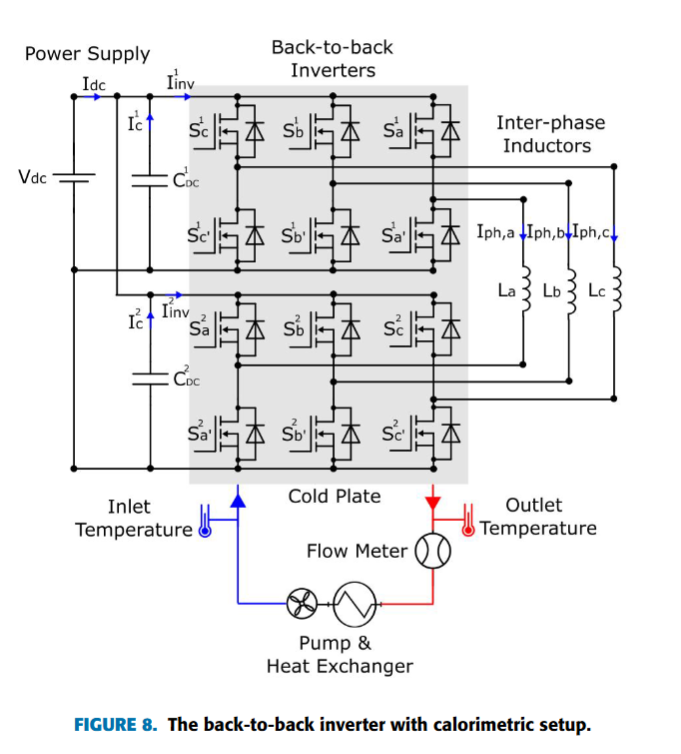
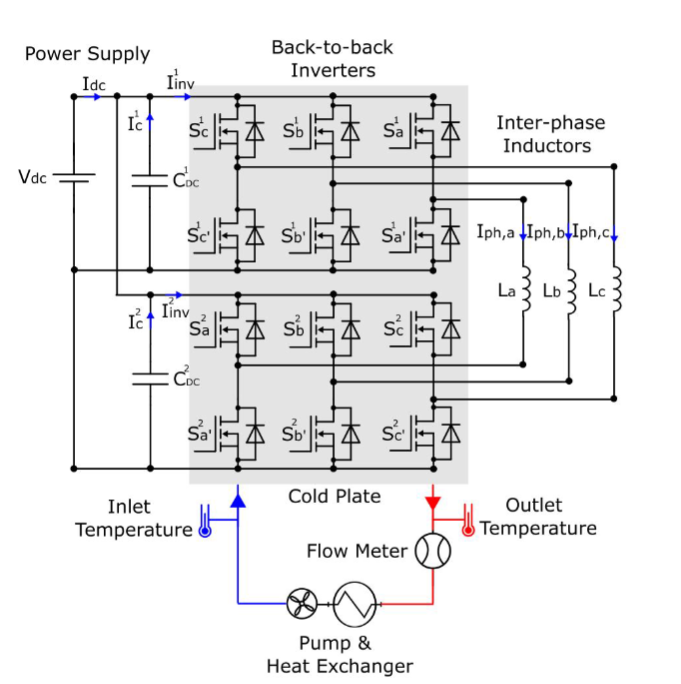
Alstom deck: fixes from the outside review (numbers, labels, overlaps, subscripts)

Changed region(s): [[0.0308, 0.0307, 0.9251, 1.0], [0.0308, 0.2149, 0.1542, 0.2763]]

diff --git a/PCB-Design/reports/alstom-meeting/index.html b/PCB-Design/reports/alstom-meeting/index.html
@@ -211,7 +211,7 @@ table.t.cells td,table.t.cells th{text-align:center} table.t.cells td:first-chil
       <div class="kpi"><b>2 SiC</b><span>two-level prototypes, 2 kV and 1.7 kV</span></div>
       <div class="kpi"><b>16 × 75 V</b><span>stacked cells, 100 V GaN</span></div>
       <div class="kpi"><b>4 × GaN</b><span>EPC2361 per switch</span></div>
-      <div class="kpi"><b>0.41 nH</b><span>power loop per cell (Q3D)</span></div>
+      <div class="kpi"><b>0.65 / 0.41 nH</b><span>loop per cell, double-pulse / load circuit (Q3D)</span></div>
       <div class="kpi"><b>Prototype v1</b><span>GaN double-pulse circuit in progress</span></div>
     </div>
     <div class="strip">
@@ -267,7 +267,7 @@ table.t.cells td,table.t.cells th{text-align:center} table.t.cells td:first-chil
       </div>
       <ul class="clean small">
         <li>Same energy at 1200 V instead of 800 V: about 33 % less current and 56 % less I²R loss in the charging cable.</li>
-        <li>Or keep the loss and cut the copper: about 40–45 % less cable mass.</li>
+        <li>Or keep the current density and cut the copper: about 33 % less cable mass.</li>
         <li>Megawatt charging (MCS) allows up to 1250 V, so a 1.2 kV battery can use it fully.</li>
       </ul>
       <table class="t txt big">
@@ -299,13 +299,13 @@ table.t.cells td,table.t.cells th{text-align:center} table.t.cells td:first-chil
         <div class="kpi"><b>+11 %</b><span>inverter power density</span></div>
       </div>
       <table class="t big">
-        <thead><tr><th>800 V vs 1200 V, same power and thermal limits</th><th>Result</th></tr></thead>
+        <thead><tr><th>Design study: 800 V vs 1200 V, same power and thermal limits</th><th>Result</th></tr></thead>
         <tbody>
           <tr><td>Charging current</td><td>−33 %</td></tr>
           <tr><td>Charging-cable I²R loss</td><td>−56 %</td></tr>
-          <tr><td>Inverter efficiency (1.2 kV SiC vs 2 kV SiC)</td><td>≈ 99.2 % both</td></tr>
+          <tr><td>Inverter efficiency (800 V with 1.2 kV SiC, 1200 V with 2 kV SiC)</td><td>≈ 99.2 % both</td></tr>
           <tr><td>DC-link capacitor volume</td><td>3.5 → 3.0 L</td></tr>
-          <tr class="hl"><td>Inverter power density</td><td>50.0 → 55.5 kW/L (+11 %)</td></tr>
+          <tr class="hl"><td>Inverter power density (component sum, study)</td><td>50.0 → 55.5 kW/L (+11 %)</td></tr>
           <tr><td>Motor: series instead of parallel winding paths</td><td>same geometry</td></tr>
         </tbody>
       </table>
@@ -350,7 +350,7 @@ table.t.cells td,table.t.cells th{text-align:center} table.t.cells td:first-chil
         <div class="chartbox" style="height:130px"><svg class="chart" id="pdChart" viewBox="0 0 560 120" aria-label="Power density of the two prototypes"></svg></div>
       </div>
       <p class="small" id="protoTxt"></p>
-      <p class="tiny muted">Prototype 2: rated power estimated from 72 kW/L × 4.14 L; efficiency map at 1190 V, M = 1.15, 50–200 A<sub>rms</sub>, from the calorimetric loss data.</p>
+      <p class="tiny muted">Prototype 2: rated power not stated in the source, ≈ 300 kW is 72 kW/L × 4.14 L; efficiency map at 1190 V, M = 1.15, 50–200 A<sub>rms</sub>, from the calorimetric loss data.</p>
     </div>
   </div>
 </section>
@@ -513,7 +513,7 @@ table.t.cells td,table.t.cells th{text-align:center} table.t.cells td:first-chil
           <label for="lnN">Cells N (your choice)</label><input id="lnN" type="range" min="1" max="60" step="1" value="16"><output id="lnNo"></output>
         </div>
       </div>
-      <div class="chartbox" style="flex:1;min-height:250px"><svg class="chart" id="lnChart" viewBox="0 0 640 200" aria-label="Cell voltage at nominal and maximum line voltage against the device rating"></svg></div>
+      <div class="chartbox" style="flex:1;min-height:250px"><svg class="chart" id="lnChart" viewBox="0 0 640 280" aria-label="Cell voltage at nominal and maximum line voltage against the device rating" preserveAspectRatio="xMidYMid meet"></svg></div>
     </div>
     <div class="stack">
       <div class="readout" id="lnRo"></div>
@@ -592,18 +592,17 @@ table.t.cells td,table.t.cells th{text-align:center} table.t.cells td:first-chil
       <div class="seg" id="scSeg" role="group" aria-label="Circuit"><button aria-pressed="false" data-v="load">Load circuit · 0.41 nH</button><button aria-pressed="true" data-v="dpt">Double-pulse circuit · 0.65 nH</button></div>
       <div class="card"><div class="ctrl"><label for="rgS">Turn-on gate resistance R<sub>g,on</sub></label><input id="rgS" type="range" min="2.5" max="3.5" step="0.1" value="3.5"><output id="rgSo"></output></div></div>
       <div class="chartbox" style="flex:1;min-height:220px"><svg class="chart" id="scChart" viewBox="0 0 640 230" aria-label="Peak high-side drain voltage and turn-on energy against gate resistance"></svg></div>
-      <div id="scCells"></div>
     </div>
     <div class="stack">
       <div class="readout" id="scRo"></div>
       <p class="small" id="scTxt"></p>
+      <div id="scCells"></div>
       <ul class="clean small">
         <li>Four cells of one leg, 75 V, about 316 A load, with the Q3D power and gate networks of the real layout.</li>
         <li>The lumped gate model gives 90 V; the extracted network shows 93 V. The extraction matters for the margin.</li>
         <li>Double-pulse circuit: R<sub>g,on</sub> 2.5 → 3.5 Ω lowers the peak from 105 to 93 V and raises E<sub>on</sub> by 28 %. Chosen: 3.5 Ω with −1.9 V off-state bias.</li>
       </ul>
-      <div class="fig" style="flex:1;min-height:150px"><img src="img/sim_waves.png" alt="LTspice waveforms of the four cells: drain currents and voltages at turn-off, low-side current and high-side voltage at turn-on, and high-side drain voltage for the Q3D and lumped models."></div>
-      <p class="tiny muted">Waveforms: (a) turn-off, four cells; (b) turn-on; (c) high-side V<sub>DS</sub>, Q3D vs lumped models. Peak V<sub>DS</sub> at the high-side device; 90 V target, 100 V rating. Simulated at the end points of each slider range; values in between are interpolated linearly and marked as such.</p>
+      <p class="tiny muted">Peak V<sub>DS</sub> at the high-side device; 90 V target, 100 V rating. Simulated at the end points of each slider range; values in between are interpolated linearly and marked as such.</p>
     </div>
   </div>
 </section>
@@ -614,14 +613,14 @@ table.t.cells td,table.t.cells th{text-align:center} table.t.cells td:first-chil
   <div class="body cols-3" style="grid-template-rows:auto auto 1fr">
     <div class="fig" style="height:400px"><img src="img/v1_dpt.png" alt="Double-pulse test circuit of prototype v1: four cells with shunts, ceramic capacitor bank, AC bar and two gate-driver areas."></div>
     <div class="fig" style="height:400px"><img src="img/v1_load.jpg" alt="Load circuit of prototype v1: the same leg with a heatsink over the transistors and the AC bar for continuous operation."></div>
-    <div class="fig" style="height:400px"><img src="img/gate_star.png" alt="Gate routing of one driver block: gate paths in a star from the driver to four transistors, Kelvin returns routed under them."></div>
+    <div class="fig" style="height:400px"><img src="img/v1_pcb_top.jpg" alt="Top view of the double-pulse circuit: capacitor bank, four cells with shunts, two gate drivers and the AC bar."></div>
     <p class="small"><b>Double-pulse circuit.</b> One leg: 4 × EPC2361 per switch, 2 drivers, a shunt in every cell, 1200 V isolation to the control side, 89.5 × 85.2 mm, 4 layers. <span class="chip now">in progress</span></p>
     <p class="small"><b>Load circuit.</b> The same leg with a heatsink over the transistors, for continuous operation at rated current. <span class="chip next">after double pulse</span></p>
-    <p class="small"><b>Gate drive.</b> One driver channel per pair, gate in a star, Kelvin return under each gate trace, so every transistor sees the same gate loop.</p>
+    <p class="small"><b>Top view and gate drive.</b> One driver channel per pair, gate in a star, Kelvin return under each gate trace, so every transistor sees the same gate loop.</p>
     <div class="readout" style="grid-column:1/-1;align-self:end">
       <div class="ro good"><b>0.646 nH</b><span>power loop per cell, double-pulse circuit (with shunt)</span></div>
-      <div class="ro good"><b>0.408 nH</b><span>power loop per cell, load circuit</span></div>
-      <div class="ro"><b>0.7 %</b><span>loop spread between the 4 cells</span></div>
+      <div class="ro good"><b>0.409 nH</b><span>power loop per cell, load circuit</span></div>
+      <div class="ro"><b>0.7 / 1.6 %</b><span>loop spread between the 4 cells, double-pulse / load</span></div>
       <div class="ro"><b>99.71 %</b><span>leg efficiency at 50 kHz (model)</span></div>
       <div class="ro"><b>0 / 0</b><span>DRC errors / silkscreen findings at release</span></div>
     </div>
@@ -697,7 +696,7 @@ table.t.cells td,table.t.cells th{text-align:center} table.t.cells td:first-chil
 
 <!-- 16 NEXT STEPS -->
 <section class="slide" id="s16" data-title="Next steps">
-  <div class="slide-head"><div><div class="eyebrow">F · Next steps</div><h2>Plan for the next twelve months</h2></div><div class="pageno"></div></div>
+  <div class="slide-head"><div><div class="eyebrow">F · Next steps</div><h2>Plan to the end of 2027</h2></div><div class="pageno"></div></div>
   <div class="body cols-2">
     <div class="stack">
       <h3>Plan</h3>
@@ -766,7 +765,13 @@ function fit(){const c=$("#canvas"); if(innerWidth<=820){c.style.transform="none
 window.addEventListener("resize",fit);
 
 /* ---------- tiny SVG chart kit ---------- */
-function el(tag,attrs,parent,text){const e=document.createElementNS(NS,tag);for(const k in attrs)e.setAttribute(k,attrs[k]);if(text!=null)e.textContent=text;if(parent)parent.appendChild(e);return e}
+const SUBRE=/_([A-Za-z0-9()]+(?:,[A-Za-z0-9()]+)*)/;
+function subHtml(t){return String(t).replace(new RegExp(SUBRE.source,"g"),"<sub>$1</sub>")}
+function el(tag,attrs,parent,text){const e=document.createElementNS(NS,tag);for(const k in attrs)e.setAttribute(k,attrs[k]);
+  if(text!=null){const t=String(text);if(tag==="text"&&SUBRE.test(t)){
+      let rest=t,m;while((m=SUBRE.exec(rest))){if(m.index)e.appendChild(document.createTextNode(rest.slice(0,m.index)));const sp=document.createElementNS(NS,"tspan");sp.setAttribute("baseline-shift","sub");sp.setAttribute("font-size","78%");sp.textContent=m[1];e.appendChild(sp);rest=rest.slice(m.index+m[0].length)}
+      if(rest)e.appendChild(document.createTextNode(rest))}else e.textContent=t}
+  if(parent)parent.appendChild(e);return e}
 function clear(svg){while(svg.firstChild)svg.removeChild(svg.firstChild)}
 function axes(svg,o){
   const m=o.m||{l:52,r:14,t:12,b:34}, W=o.W, H=o.H;
@@ -786,7 +791,7 @@ function axes(svg,o){
 }
 function interp(xs,ys,x){if(x<=xs[0])return ys[0];for(let i=1;i<xs.length;i++)if(x<=xs[i])return ys[i-1]+(ys[i]-ys[i-1])*(x-xs[i-1])/(xs[i]-xs[i-1]);return ys[ys.length-1];}
 function path(pts,X,Y){return pts.map((p,i)=>(i?"L":"M")+X(p[0]).toFixed(1)+" "+Y(p[1]).toFixed(1)).join("")}
-function ro(id,items){$(id).innerHTML=items.map(r=>`<div class="ro ${r.c||""}"><b>${r.v}</b><span>${r.l}</span></div>`).join("")}
+function ro(id,items){$(id).innerHTML=items.map(r=>`<div class="ro ${r.c||""}"><b>${r.v}</b><span>${subHtml(r.l)}</span></div>`).join("")}
 function bindRange(id,fmtf,cb){const i=$("#"+id),o=$("#"+id+"o");const f=()=>{if(o)o.textContent=fmtf(+i.value);cb()};i.addEventListener("input",f);if(o)o.textContent=fmtf(+i.value);}
 function seg(id,cb){const s=$("#"+id);s.addEventListener("click",e=>{const b=e.target.closest("button");if(!b)return;
   [...s.children].forEach(x=>x.setAttribute("aria-pressed",x===b));cb(b.dataset.v)});return ()=>s.querySelector('[aria-pressed="true"]').dataset.v}
@@ -811,7 +816,7 @@ $("#tl").addEventListener("click",e=>{const b=e.target.closest("button[data-i]")
 
 /* ---------- slide 3: charging ---------- */
 function charging(){const P=+$("#chP").value,V=+$("#chV").value;const I=P*1000/V, I8=P*1000/800;
-  ro("#chRo",[{v:fmt(I,0)+" A",l:"charging current"},{v:fmt(100*(I/I8)**2,0)+" %",l:"cable I²R loss vs 800 V",c:V>800?"good":V<800?"bad":""},{v:fmt(100*(I/I8),0)+" %",l:"copper section for equal loss density vs 800 V"}]);}
+  ro("#chRo",[{v:fmt(I,0)+" A",l:"charging current"},{v:fmt(100*(I/I8)**2,0)+" %",l:"cable I²R loss vs 800 V",c:V>800?"good":V<800?"bad":""},{v:fmt(100*(I/I8),0)+" %",l:"copper section at equal current density vs 800 V"}]);}
 bindRange("chP",v=>v+" kW",charging);bindRange("chV",v=>v+" V",charging);
 
 /* ---------- slide 4b: two SiC prototypes ---------- */
@@ -821,7 +826,7 @@ const PROTO={
         ["inv","Inverter","img/b2b_inverter.jpg","Inverter with three 2 kV 62 mm modules, gate drives, film DC-link capacitors, current sensors and calorimetric sensors.","SiC inverter with 62 mm power modules, gate drives, DC-link capacitors and calorimetric sensors."],
         ["scope","Currents","img/b2b_scope.jpg","Measured phase currents (100 A/div) and a switch-node voltage (500 V/div).","Oscilloscope capture of three phase currents and one switch-node voltage."],
         ["map","Efficiency","img/p1_effmap.png","Measured efficiency over phase current and switching frequency at 1.2 kV: highest below 10 kHz.","Efficiency map of prototype 1 over phase current 50–200 A and switching frequency 7–19 kHz, between 98.4 and 99.6 percent."]]},
- p2:{col:2,txt:"Prototype 2 keeps the same bench and method but uses 1.7 kV automotive (eTruck) modules, a laminated copper busbar and a compact cold plate. The volume falls to 4.14 L: about 72 kW/L for the components and 50 kW/L for the box, about 2.4 times prototype 1 by box volume.",
+ p2:{col:2,txt:"Prototype 2 keeps the same bench and method but uses 1.7 kV automotive (eTruck) modules, a laminated copper busbar and a compact cold plate. The volume falls to 4.14 L: about 72 kW/L for the components and 50 kW/L for the box, about 2.4 times the box power density of prototype 1.",
   pics:[["cad","Design","img/p2_cad.jpg","CAD of the power stage: three half-bridge modules on one cold plate, laminated busbar to the film capacitor, gate-driver board on the module.","CAD model of prototype 2 with three half-bridge modules on a cold plate, a laminated copper busbar and a round film capacitor."],
         ["bench","Built","img/p2_bench.jpg","The two inverters of the back-to-back pair stacked in one frame, with the B-Box controller behind.","Photo of prototype 2: two inverters stacked in an aluminium frame with gate drivers, busbars and cables."],
         ["setup","On the bench","img/p2_setup.jpg","Prototype 2 on the calorimetric back-to-back bench with heat exchanger, supplies and interphase inductors.","Prototype 2 on the test bench next to the heat exchanger and power supplies, with an interphase inductor in front."],
@@ -868,14 +873,14 @@ bindRange("dfN",v=>v,dfom);
 let wsSel=0;
 function wsets(){const N=+$("#wsN").value;wsSel=Math.min(wsSel,N-1);const s=$("#wsSvg");clear(s);
   // stack on the left: cells bottom (0 V) to top (Vdc)
-  const x0=40,w=88,top=24,bot=300,h=(bot-top)/N;
+  const x0=44,w=84,top=24,bot=300,h=(bot-top)/N;
   el("text",{x:x0+w/2,y:top-8,"text-anchor":"middle",class:"ink"},s,"+1200 V");
   el("text",{x:x0+w/2,y:bot+16,"text-anchor":"middle",class:"ink"},s,"0 V");
   for(let i=0;i<N;i++){const y=bot-(i+1)*h, sel=i===wsSel;
     const g=el("g",{style:"cursor:pointer",role:"button","aria-label":"Cell "+(i+1)},s);g.onclick=()=>{wsSel=i;wsets()};
     el("rect",{x:x0,y:y+1,width:w,height:Math.max(h-2,2),rx:2,fill:sel?"var(--accent)":"var(--sunk)",stroke:"var(--accent)","stroke-width":1},g);
     if(h>=13)el("text",{x:x0+w/2,y:y+h/2+4,"text-anchor":"middle",fill:sel?"var(--accent-ink)":"var(--muted)",style:"font-size:"+Math.min(11,h-3)+"px"},g,"cell "+(i+1));}
-  el("text",{x:x0+w+8,y:bot-(wsSel+0.5)*h-6,class:"ink"},s,fmt(1200/N,1)+" V");
+  el("text",{x:x0-4,y:bot-(wsSel+0.5)*h+4,"text-anchor":"end",class:"ink"},s,fmt(1200/N,0)+" V");
   // stator: 3N coil groups, cell j phase k at angle (j + k N)/(3N)
   const cx=380,cy=165,R1=96,R2=140,M=3*N,PH=["var(--ch1)","var(--ch2)","var(--ch3)"];
   el("circle",{cx,cy,r:R2+6,fill:"none",stroke:"var(--line)","stroke-width":1},s);
@@ -915,17 +920,17 @@ function autoN(){const n=nMin();$("#lnN").value=Math.min(n,60);$("#lnNo").textCo
 function lines(){const L=LINES.find(l=>l[0]===gLine()),D=DEVS.find(d=>d[0]===gDev()),u=+$("#lnU").value/100,N=+$("#lnN").value;
   const vn=L[2]/N,vm=L[3]/N,nm=nMin();
   const s=$("#lnChart");clear(s);const top=Math.max(D[2]*1.25,vm*1.1);
-  const A=axes(s,{W:640,H:200,x0:0,x1:top,y0:0,y1:1,xt:[0,D[2]*0.25,D[2]*0.5,D[2]*0.75,D[2],...(top>D[2]*1.2?[D[2]*1.25]:[])].map(v=>+v.toFixed(0)),yt:[],m:{l:110,r:30,t:10,b:30},xl:"voltage per cell [V]"});
-  el("rect",{x:A.X(D[2]*u),y:10,width:A.X(D[2])-A.X(D[2]*u),height:160,fill:"var(--warn)","fill-opacity":.10},s);
-  el("rect",{x:A.X(D[2]),y:10,width:Math.max(A.X(top)-A.X(D[2]),0),height:160,fill:"var(--bad)","fill-opacity":.12},s);
-  el("line",{x1:A.X(D[2]),x2:A.X(D[2]),y1:10,y2:170,stroke:"var(--bad)","stroke-dasharray":"5 3"},s);
+  const A=axes(s,{W:640,H:280,x0:0,x1:top,y0:0,y1:1,xt:[0,D[2]*0.25,D[2]*0.5,D[2]*0.75,D[2],...(top>D[2]*1.2?[D[2]*1.25]:[])].map(v=>+v.toFixed(0)),yt:[],m:{l:110,r:30,t:10,b:30},xl:"voltage per cell [V]"});
+  el("rect",{x:A.X(D[2]*u),y:10,width:A.X(D[2])-A.X(D[2]*u),height:240,fill:"var(--warn)","fill-opacity":.10},s);
+  el("rect",{x:A.X(D[2]),y:10,width:Math.max(A.X(top)-A.X(D[2]),0),height:240,fill:"var(--bad)","fill-opacity":.12},s);
+  el("line",{x1:A.X(D[2]),x2:A.X(D[2]),y1:10,y2:250,stroke:"var(--bad)","stroke-dasharray":"5 3"},s);
   el("text",{x:A.X(D[2])-4,y:22,"text-anchor":"end",fill:"var(--bad)"},s,D[2]+" V rating");
-  el("text",{x:A.X(D[2]*u)-4,y:164,"text-anchor":"end",fill:"var(--warn)"},s,"use limit "+fmt(u*100,0)+" %");
-  [["nominal",vn,"var(--ch2)",50],["maximum",vm,"var(--ch3)",104]].forEach(r=>{
-    el("text",{x:102,y:r[3]+17,"text-anchor":"end",class:"ink"},s,r[0]);
+  el("text",{x:A.X(D[2]*u)-4,y:244,"text-anchor":"end",fill:"var(--warn)"},s,"use limit "+fmt(u*100,0)+" %");
+  [["nominal",vn,"var(--ch2)",70],["maximum",vm,"var(--ch3)",150]].forEach(r=>{
+    el("text",{x:102,y:r[3]+25,"text-anchor":"end",class:"ink"},s,r[0]);
     const c=r[1]>D[2]?"var(--bad)":r[1]>D[2]*u?"var(--warn)":r[2];
-    el("rect",{x:A.X(0),y:r[3],width:A.X(Math.min(r[1],top))-A.X(0),height:26,rx:2,fill:c,"fill-opacity":.85},s);
-    el("text",{x:A.X(Math.min(r[1],top))+5,y:r[3]+17,class:"ink"},s,fmt(r[1],0)+" V")});
+    el("rect",{x:A.X(0),y:r[3],width:A.X(Math.min(r[1],top))-A.X(0),height:40,rx:2,fill:c,"fill-opacity":.85},s);
+    el("text",{x:A.X(Math.min(r[1],top))+5,y:r[3]+25,class:"ink"},s,fmt(r[1],0)+" V")});
   const ok=vm<=D[2]*u;
   ro("#lnRo",[{v:nm,l:"minimum cells at this use limit"},{v:fmt(vm,0)+" V",l:"cell voltage at max. line ("+L[3]+" V)",c:vm>D[2]?"bad":ok?"good":"warn"},{v:6*N,l:"switch positions with N = "+N},{v:D[3],l:"example device, "+D[4]+" mΩ typ."}]);
   const u2=+$("#lnU").value/100;$("#lnTable tbody").innerHTML=LINES.map(l=>`<tr class="${l[0]===gLine()?"sel":""}"><td>${l[1]}</td>${DEVS.map(d=>`<td style="${d[0]===gDev()&&l[0]===gLine()?"font-weight:700":""}">${Math.ceil(l[3]/(d[2]*u2))}</td>`).join("")}</tr>`).join("");
@@ -948,12 +953,12 @@ $("#flow").addEventListener("click",e=>{const b=e.target.closest("button[data-i]
 /* ---------- slide 12: roadmap ---------- */
 const ROAD=[
  {img:"q3d_cells.jpg",s:"done",b:"Cell design",t:"Simulation",h:"Cell design and verification in simulation",d:["Voltage class, layout, paralleling and DC link chosen by the procedure.","Q3D, LTspice and thermal checks for every revision."]},
- {img:"v1_dpt.png",s:"now",b:"Double-pulse circuit",t:"prototype v1, in progress",h:"Prototype v1 double-pulse circuit",d:["Layout finished in November 2026 after independent reviews; now in ordering and fabrication.","Measurement points: a shunt in every cell, gate voltages of high and low side, switch node through a differential probe."]},
- {img:"gate_star.png",s:"now",b:"Order, assemble",t:"Nov–Dec 2026",h:"Order and assembly",d:["Board order with filled vias in the pads; assembly of the GaN devices.","In parallel: the test procedure and lab setup (differential probe, shunt read-out) are prepared."]},
+ {img:"v1_pcb_top.jpg",s:"done",b:"Double-pulse circuit",t:"prototype v1, layout done",h:"Prototype v1 double-pulse circuit",d:["Layout finished in November 2026 after independent reviews; now in ordering and fabrication.","Measurement points: a shunt in every cell, gate voltages of high and low side, switch node through a differential probe."]},
+ {img:"v1_dpt.png",s:"now",b:"Order, assemble",t:"Nov–Dec 2026",h:"Order and assembly",d:["Board order with filled vias in the pads; assembly of the GaN devices.","In parallel: the test procedure and lab setup (differential probe, shunt read-out) are prepared."]},
  {img:"sim_waves.png",s:"next",b:"Double pulse",t:"20 → 80 V",h:"Double-pulse tests",d:["Step the voltage from 20 to 80 V on the board's own DC link.","Measure turn-on and turn-off energy, current sharing between the four cells, gate overshoot; compare with the simulations."]},
  {img:"v1_load.jpg",s:"next",b:"Load circuit",t:"prototype v1, one leg",h:"Prototype v1 load circuit and busbar",d:["Frozen until the double-pulse results are in, so that what we learn goes into it.","Continuous operation of one leg at rated current, thermal measurement."]},
  {img:"level_iso.jpg",s:"next",b:"Cells in series",t:"three-phase, stacked",h:"Three-phase cell and stacked cells",d:["One full three-phase cell on a winding set, then two or more cells in series on a shared DC link.","Cell-voltage balancing and isolated gate supplies under real common-mode stress."]}];
-let roadSel=3;
+let roadSel=2;
 function road(){$("#road").innerHTML=ROAD.map((r,i)=>`<button class="stage ${r.s}" data-i="${i}" aria-pressed="${i===roadSel}"><span class="chip ${r.s}">${{done:"done",now:"now",next:"next"}[r.s]}</span><b>${r.b}</b><span>${r.t}</span></button>`).join("");
   const r=ROAD[roadSel];$("#roadDetail").innerHTML=`<div class="stack" style="gap:8px"><div class="eyebrow">Stage ${roadSel+1} of 6</div><h3 style="font-size:19px">${r.h}</h3><ul class="clean small">${r.d.map(x=>"<li>"+x+"</li>").join("")}</ul></div><div class="fig"><img src="img/${r.img}" alt="${r.h}"></div>`;}
 $("#road").addEventListener("click",e=>{const b=e.target.closest("button[data-i]");if(b){roadSel=+b.dataset.i;road()}});
@@ -992,12 +997,12 @@ function npar(){const n=+$("#npN").value;$("#npNo").textContent=n;const d=NPAR[n
     el("rect",{x:x-6,y:14,width:bw+12,height:A.Y(0)-14,fill:"transparent",stroke:sel?"var(--teal)":"none","stroke-width":2,rx:4},g);
     el("text",{x:A.X(p.n),y:A.Y(Math.min(p.tot,top))-5,"text-anchor":"middle",class:sel?"ink":""},s,fmt(p.tot,1));
     el("text",{x:A.X(p.n),y:A.Y(0)+15,"text-anchor":"middle",class:"ink"},s,"n = "+p.n);
-    el("text",{x:A.X(p.n),y:A.Y(0)+29,"text-anchor":"middle"},s,fmt(100*p.eta,2)+" %");
+    el("text",{x:A.X(p.n),y:A.Y(0)+29,"text-anchor":"middle"},s,fmt(100*p.eta,1)+" %");
     [[p.tj,125,"°C",56],[p.vpk,90,"V",80]].forEach(r=>{const ok=r[0]<=r[1];const yy=A.Y(0)+r[3];
       el("rect",{x:A.X(p.n)-30,y:yy-12,width:60,height:17,rx:8,fill:ok?"var(--good)":"var(--bad)","fill-opacity":sel?.22:.1,stroke:ok?"var(--good)":"var(--bad)","stroke-width":sel?1.5:.8},s);
       el("text",{x:A.X(p.n),y:yy+1,"text-anchor":"middle",fill:ok?"var(--good)":"var(--bad)"},s,(ok?"✓ ":"✗ ")+(r[0]>=200?">150":fmt(r[0],0))+" "+r[2])})});
   el("text",{x:6,y:A.Y(0)+60},s,"T_j");el("text",{x:6,y:A.Y(0)+84},s,"V_DS");
-  ro("#npRo",[{v:fmt(d.tot,1)+" W",l:"leg loss"},{v:fmt(100*d.eta,2)+" %",l:"leg efficiency"},{v:(d.tj>=200?"> 150":fmt(d.tj,0))+" °C",l:"junction, 40 °C ambient",c:d.tj<=125?"good":"bad"},
+  ro("#npRo",[{v:fmt(d.tot,1)+" W",l:"leg loss"},{v:fmt(100*d.eta,1)+" %",l:"leg efficiency"},{v:(d.tj>=200?"> 150":fmt(d.tj,0))+" °C",l:"junction, 40 °C ambient",c:d.tj<=125?"good":"bad"},
     {v:fmt(d.vpk,0)+" V",l:"peak V_DS at 0.5 nH",c:d.vpk<=90?"good":"bad"},{v:fmt(d.pdev,2)+" W",l:"loss per device"},{v:2*n,l:"transistors per leg"}]);
   const v=$("#npVds");clear(v);const B=axes(v,{W:520,H:180,x0:0,x1:330,y0:60,y1:300,xt:[0,80,160,240,320],yt:[60,100,140,180,220,260,300],m:{l:40,r:10,t:8,b:30},xl:"current per device [A]"});
   el("line",{x1:B.X(0),x2:B.X(330),y1:B.Y(90),y2:B.Y(90),stroke:"var(--bad)","stroke-dasharray":"5 3"},v);el("text",{x:B.X(326),y:B.Y(90)-5,"text-anchor":"end",fill:"var(--bad)"},v,"90 V");
@@ -1011,7 +1016,7 @@ bindRange("npN",v=>v,npar);
 const gLp=seg("lpSeg",()=>loops());
 function loops(){const m=gLp();const s=$("#lpChart");clear(s);
   const A=axes(s,{W:560,H:190,x0:0,x1:4,y0:0,y1:0.8,yt:[0,0.2,0.4,0.6,0.8],xt:[],m:{l:44,r:10,t:10,b:26},yl:"nH per cell"});
-  el("line",{x1:A.X(0),x2:A.X(4),y1:A.Y(0.5),y2:A.Y(0.5),stroke:"var(--good)","stroke-dasharray":"5 3"},s);el("text",{x:A.X(3.98),y:A.Y(0.5)-5,"text-anchor":"end",fill:"var(--good)"},s,"0.5 nH design");
+  el("line",{x1:A.X(0),x2:A.X(4),y1:A.Y(0.5),y2:A.Y(0.5),stroke:"var(--good)","stroke-dasharray":"5 3"},s);el("text",{x:A.X(3.98),y:12,"text-anchor":"end",fill:"var(--good)"},s,"‒ ‒ 0.5 nH design value");
   const bw=(A.X(1)-A.X(0))*0.3;
   for(let c=0;c<4;c++){[["dpt","var(--ch3)",-1],["load","var(--ch2)",1]].forEach(b=>{const on=m==="both"||m===b[0];const v=LOOPC[b[0]][c];
       const x=A.X(c+0.5)+(b[2]<0?-bw-3:3);el("rect",{x:x,y:A.Y(v),width:bw,height:A.Y(0)-A.Y(v),fill:b[1],"fill-opacity":on?.9:.15},s);
@@ -1030,37 +1035,37 @@ const RGC={load:{pts:[SIMC[0],SIMC[1]],lo:2.0,hi:3.0},dpt:{pts:[SIMC[3],SIMC[4]]
 const gSc=seg("scSeg",v=>{const c=RGC[v];const r=$("#rgS");r.min=c.lo;r.max=c.hi;r.value=c.hi;$("#rgSo").textContent=fmt(c.hi,1)+" Ω";sims()});
 function sims(){const k=gSc(),C=RGC[k],R=+$("#rgS").value,a=C.pts[0],b=C.pts[1];
   const t=(R-a.rg)/(b.rg-a.rg),L=(x,y)=>x+(y-x)*t;const vh=L(a.vh,b.vh),eon=L(a.eon,b.eon),sim=Math.abs(t)<1e-6||Math.abs(t-1)<1e-6,c=sim?(t<0.5?a:b):null;
-  const s=$("#scChart");clear(s);const A=axes(s,{W:640,H:230,x0:1.8,x1:3.7,y0:80,y1:110,xt:[2,2.5,3,3.5],yt:[80,85,90,95,100,105,110],m:{l:44,r:52,t:8,b:30},xl:"R_g,on [Ω]",yl:"peak V_DS,HS [V]"});
-  const Ye=v=>A.Y(80+(v-90)/(140-90)*30);[90,100,110,120,130,140].forEach(v=>el("text",{x:598,y:Ye(v)+4},s,v));el("text",{x:636,y:14,"text-anchor":"end",fill:"var(--ch1)"},s,"E_on [µJ]");
+  const s=$("#scChart");clear(s);const A=axes(s,{W:640,H:230,x0:1.8,x1:3.7,y0:80,y1:110,xt:[2,2.5,3,3.5],yt:[80,85,90,95,100,105,110],m:{l:44,r:52,t:22,b:30},xl:"R_g,on [Ω]",yl:"peak V_DS,HS [V]"});
+  const Ye=v=>A.Y(80+(v-90)/(140-90)*30);[90,100,110,120,130,140].forEach(v=>el("text",{x:598,y:Ye(v)+4},s,v));el("text",{x:636,y:10,"text-anchor":"end",fill:"var(--ch1)"},s,"‒ ‒ E_on [µJ]");el("text",{x:44,y:10,fill:"var(--teal)"},s,"— peak V_DS,HS [V]");
   el("line",{x1:A.X(1.8),x2:A.X(3.7),y1:A.Y(90),y2:A.Y(90),stroke:"var(--warn)","stroke-dasharray":"5 3"},s);el("line",{x1:A.X(1.8),x2:A.X(3.7),y1:A.Y(100),y2:A.Y(100),stroke:"var(--bad)","stroke-dasharray":"5 3"},s);
   el("text",{x:A.X(1.82),y:A.Y(100)-4,fill:"var(--bad)"},s,"100 V rating");el("text",{x:A.X(1.82),y:A.Y(90)-4,fill:"var(--warn)"},s,"90 V target");
-  Object.entries(RGC).forEach(([kk,cc])=>{const on=kk===k,p=cc.pts;
+  Object.entries(RGC).filter(([kk])=>kk===k).forEach(([kk,cc])=>{const on=true,p=cc.pts;
     el("path",{d:path(p.map(q=>[q.rg,q.vh]),A.X,A.Y),fill:"none",stroke:"var(--teal)","stroke-width":on?2.6:1.2,"stroke-opacity":on?1:.35},s);
     el("path",{d:p.map((q,i)=>(i?"L":"M")+A.X(q.rg).toFixed(1)+" "+Ye(q.eon).toFixed(1)).join(""),fill:"none",stroke:"var(--ch1)","stroke-width":on?2.6:1.2,"stroke-opacity":on?1:.35,"stroke-dasharray":"6 3"},s);
     p.forEach(q=>{el("circle",{cx:A.X(q.rg),cy:A.Y(q.vh),r:on?5:3,fill:"var(--teal)","fill-opacity":on?1:.4},s);el("circle",{cx:A.X(q.rg),cy:Ye(q.eon),r:on?5:3,fill:"var(--ch1)","fill-opacity":on?1:.4},s)});
-    el("text",{x:A.X(p[0].rg)-6,y:A.Y(p[0].vh)+(kk==="dpt"?-8:16),"text-anchor":"end",fill:"var(--teal)","fill-opacity":on?1:.5},s,kk==="dpt"?"double pulse":"load")});
-  const lp=SIMC[2];el("rect",{x:A.X(lp.rg)-5,y:A.Y(lp.vh)-5,width:10,height:10,fill:"none",stroke:"var(--muted)","stroke-width":1.5},s);el("text",{x:A.X(lp.rg)+9,y:A.Y(lp.vh)+4},s,"lumped gate model");
+    });
+  const lp=SIMC[2];if(k==="dpt")el("rect",{x:A.X(lp.rg)-5,y:A.Y(lp.vh)-5,width:10,height:10,fill:"none",stroke:"var(--muted)","stroke-width":1.5},s);if(k==="dpt")el("text",{x:A.X(lp.rg)-9,y:A.Y(lp.vh)+18,"text-anchor":"end"},s,"lumped gate model");
   el("circle",{cx:A.X(R),cy:A.Y(vh),r:8,fill:sim?"var(--teal)":"var(--panel)",stroke:"var(--ink)","stroke-width":2},s);
   el("line",{x1:A.X(R),x2:A.X(R),y1:8,y2:200,stroke:"var(--accent)","stroke-width":1},s);
   ro("#scRo",[{v:fmt(vh,1)+" V",l:"peak high-side V_DS"+(sim?"":" (interpolated)"),c:vh>100?"bad":vh>90?"warn":"good"},{v:fmt(100-vh,1)+" V",l:"margin to the 100 V rating"},{v:fmt(eon,1)+" µJ",l:"E_on, four cells"+(sim?"":" (interpolated)")},
     {v:sim?fmt(c.sEon,2)+" %":"–",l:"E_on spread between cells"},{v:sim?fmt(c.sOff,2)+" %":"–",l:"turn-off current spread"},{v:fmt(a.loop,3)+" nH",l:"loop per cell in the model"}]);
   $("#scTxt").textContent=sim?c.note.replace("R_g,on","Rg,on"):"Interpolated between the two simulated settings. Move to an end of the slider for the simulated per-cell results.";
   $("#scCells").innerHTML=sim&&c.cells?`<table class="t cells"><thead><tr><th>per cell, R<sub>g,on</sub> = ${c.rg} Ω</th><th>cell 1</th><th>cell 2</th><th>cell 3</th><th>cell 4</th></tr></thead><tbody>`+
-    [["E_on [µJ]","eon"],["I_off [A]","ioff"],["peak V_DS,HS [V]","vh"],["di/dt on [A/ns]","didt"]].map(r=>`<tr><td>${r[0]}</td>${c.cells.map(x=>`<td>${fmt(x[r[1]],1)}</td>`).join("")}</tr>`).join("")+`</tbody></table>`
+    [["E_on [µJ]","eon"],["I_off [A]","ioff"],["peak V_DS,HS [V]","vh"],["di/dt on [A/ns]","didt"]].map(r=>`<tr><td>${subHtml(r[0])}</td>${c.cells.map(x=>`<td>${fmt(x[r[1]],1)}</td>`).join("")}</tr>`).join("")+`</tbody></table>`
     :`<p class="small muted">${sim?"Per-cell values are not stored for this setting.":"Per-cell values exist only at the simulated settings."}</p>`;}
 bindRange("rgS",v=>fmt(v,1)+" Ω",sims);
 
 
 /* ---------- device choice ---------- */
-const DVS=[["EPC2361",100,0.75,1800,"E"],["EPC2302",100,1.4,1700,"E"],["EPC2071",100,1.7,1420,"E"],["IGC033S10S1",100,2.4,860,"I"],["EPC2304",200,3.5,1200,"E"],["EPC2215",200,6,690,"E"],["EPC2034C",200,6,960,"E"],["EPC2050",350,55,125,"E"],["IGT65R025D2",650,25,205,"I"],["IGT65R140D2",650,140,35,"I"]];
+const DVS=[["EPC2361",100,0.75,1800,"E"],["EPC2302",100,1.4,1700,"E"],["EPC2071",100,1.7,1420,"E"],["IGC033S10S1",100,2.4,860,"I"],["EPC2304",200,3.5,1200,"E"],["EPC2215",200,6,690,"E"],["EPC2034C",200,6,960,"E"],["EPC2050",350,55,125,"E"],["IGLT65R025D2",650,25,205,"I"],["IGT65R140D2",650,140,35,"I"]];
 const DVC={100:"var(--ch2)",200:"var(--ch1)",350:"var(--ch4)",650:"var(--ch3)"};const TAU1=0.75*1800/1000;let dvSel="EPC2361";
 function devs(){const s=$("#dvChart");clear(s);
   const A=axes(s,{W:640,H:420,x0:20,x1:4000,y0:0.4,y1:300,logx:1,logy:1,xt:[20,50,100,200,500,1000,2000],yt:[0.5,1,2,5,10,20,50,100,200],m:{l:52,r:14,t:12,b:38},xl:"C_oss,tr = Q_oss/V  [pF]",yl:"R_DS(on) typ. [mΩ]"});
   [1,2,5,10].forEach(t=>{const pts=[];for(let lc=Math.log10(20);lc<=Math.log10(4000)+1e-9;lc+=0.05){const c=10**lc,r=t*1000/c;if(r>=0.4&&r<=300)pts.push([c,r])}
-    el("path",{d:path(pts,A.X,A.Y),fill:"none",stroke:"var(--line)","stroke-dasharray":"4 4"},s);const q=pts[Math.floor(pts.length*0.1)];el("text",{x:A.X(q[0])+4,y:A.Y(q[1])-4},s,"τ = "+t+" ps")});
+    el("path",{d:path(pts,A.X,A.Y),fill:"none",stroke:"var(--line)","stroke-dasharray":"4 4"},s);const q=pts[Math.floor(pts.length*0.52)];el("text",{x:A.X(q[0])+4,y:A.Y(q[1])-4},s,"τ = "+t+" ps")});
   DVS.forEach(d=>{const x=A.X(d[3]),y=A.Y(d[2]),sel=d[0]===dvSel;const g=el("g",{style:"cursor:pointer"},s);g.onclick=()=>{dvSel=d[0];devs()};
     if(d[4]==="I")el("rect",{x:x-7,y:y-7,width:14,height:14,fill:DVC[d[1]],stroke:"var(--ink)","stroke-width":sel?2.5:.6},g);else el("circle",{cx:x,cy:y,r:7.5,fill:DVC[d[1]],stroke:"var(--ink)","stroke-width":sel?2.5:.6},g);
-    el("text",{x:x+10,y:y+4,class:sel?"ink":""},g,d[0])});
+    const left=d[0]==="EPC2215";el("text",{x:left?x-10:x+10,y:y+4,"text-anchor":left?"end":"start",class:sel?"ink":""},g,d[0])});
   const d=DVS.find(x=>x[0]===dvSel),tau=d[2]*d[3]/1000,N=Math.ceil(1200/(0.75*d[1]));
   ro("#dvRo",[{v:fmt(tau,2)+" ps",l:"D-FoM τ of "+d[0]},{v:fmt(Math.sqrt(tau/TAU1),2)+"×",l:"min. semiconductor loss vs EPC2361",c:d[0]==="EPC2361"?"good":tau/TAU1<2?"warn":"bad"},{v:N,l:"cells for 1200 V"},{v:fmt(1200/N,0)+" V",l:"voltage per cell"}]);
   $("#dvTable tbody").innerHTML=DVS.slice().sort((a,b)=>a[2]*a[3]-b[2]*b[3]).map(x=>{const t=x[2]*x[3]/1000;return `<tr data-d="${x[0]}" class="${x[0]===dvSel?"sel":""}"><td>${x[0]}</td><td>${x[1]}</td><td>${x[2]}</td><td>${x[3]}</td><td>${fmt(t,2)}</td><td>${fmt(Math.sqrt(t/TAU1),2)}×</td><td>${Math.ceil(1200/(0.75*x[1]))}</td></tr>`}).join("");}

diff --git a/PCB-Design/reports/design-loop/log.md b/PCB-Design/reports/design-loop/log.md
@@ -539,3 +539,13 @@ then sim-analyst Q3D + gate check. 1 and 2 run in parallel (read-only); 3 waits 
   vs 18 W x 0.65 K/W; 55.5 vs 49.4 kW/L; 40-45 % vs 33 % cable saving; 0.41 vs 0.646 nH on slide 1; 99.70 vs
   99.71 %; IGT65R025D2 vs IGLT65R025D2. Plus ~30 per-slide items (labels with raw underscores, overlaps, Gantt
   runs past "twelve months", "FIGURE 8." caption). Waiting for Enes to pick what to fix.
+- **Enes:** fix the clear errors and visual issues from the review. Done (version 16): slide 1 loop KPI 0.65 / 0.41 nH;
+  slide 3 one basis (equal current density, 33 % less copper); slide 4 study labels, paper caption cropped from the
+  schematic; slide 5 wording; part name IGLT65R025D2 everywhere (datasheet in the ECCE sources); subscripts in all
+  chart and readout labels (no raw underscores); label overlaps on slides 7, 8, 14, 15; slide 11 chart without empty
+  band; slide 13 efficiency to one decimal; slide 15 shows only the active circuit, per-cell table moved right,
+  unreadable waveform image removed; slide 16 0.409 nH, spread 0.7 / 1.6 %, PCB top view instead of gate star;
+  slide 18 one NOW stage (order and assembly), default stage with a readable picture; slide 20 "Plan to the end of
+  2027". Open (Enes to decide): 92.9 V vs 90 V target, 1250 V max-voltage case, aux losses in the benchmark,
+  prototype-2 loss basis, 68.8 C thermal path, 36-slot vs 48 coils, open-risks slide.
+- Check: 20 slides and all slider/stage states fit, no console errors, no raw underscores; changed slides viewed.
